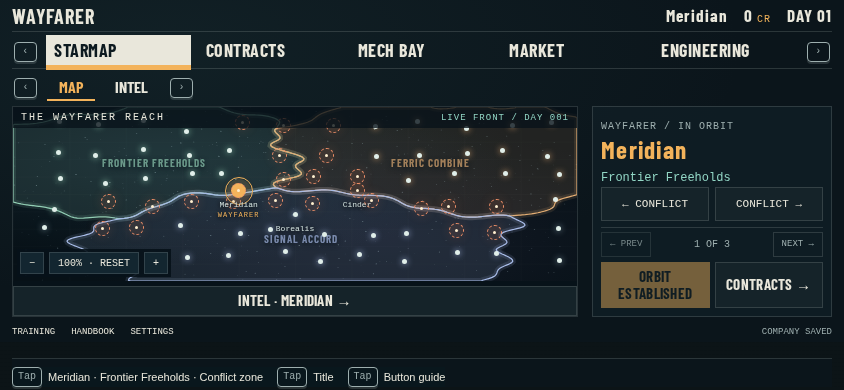
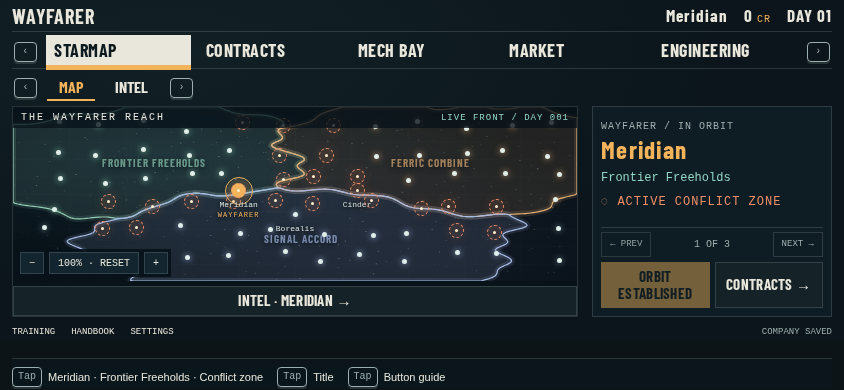
Remove conflict cycling buttons from Starmap intel

diff --git a/src/campaign-ui.ts b/src/campaign-ui.ts
@@ -1,4 +1,4 @@
-import { getSystemIntel, PLANETS } from './universe';
+import { getSystemIntel } from './universe';
 import { renderTerritoryMap } from './territory-map';
 import { selectWorkspacePane } from './workspace';
 import { html } from 'lit-html';
@@ -42,11 +42,6 @@ export const renderStarmap = function (root: HTMLElement, campaign: Campaign, de
 	const planet = getPlanet(destination);
 	const forecast = destination === campaign.planetId ? campaign : travelTo(campaign, destination);
 	const intel = getSystemIntel(forecast, destination);
-	const conflicts = PLANETS.filter(function (world) { return getSystemIntel(world.id === campaign.planetId ? campaign : travelTo(campaign, world.id), world.id).conflict; });
-	const moveConflict = function (delta: number) {
-		const index = conflicts.findIndex(function (world) { return world.id === destination; });
-		const next = conflicts[(index + delta + conflicts.length) % conflicts.length]; if (next) actions.selectPlanet(next.id);
-	};
 	const local = destination === campaign.planetId;
 	const active = campaign.active;
 	const mech = getOwnedMech(campaign);
@@ -54,9 +49,9 @@ export const renderStarmap = function (root: HTMLElement, campaign: Campaign, de
 	const panes: WorkspacePane[] = [
 		{ id: 'route', label: 'Starmap', items: [renderTerritoryMap(root, campaign, destination, actions.selectPlanet)], actions: html`<button @click=${function () { selectWorkspacePane(root, 'system'); }}>INTEL · ${planet.name.toUpperCase()} →</button>` },
 		{ id: 'system', label: 'System intel', items: [
-			html`<span class="eyebrow">${local ? 'WAYFARER / IN ORBIT' : `ARRIVAL FORECAST / DAY ${forecast.day}`}</span><h3>${planet.name}</h3><p class="system-control">${intel.owner ? getFaction(intel.owner).name : 'Unclaimed space'}</p><div class="system-nav"><button ?disabled=${Boolean(active) || !conflicts.length} @click=${function () { moveConflict(-1); }}>← CONFLICT</button><button ?disabled=${Boolean(active) || !conflicts.length} @click=${function () { moveConflict(1); }}>CONFLICT →</button></div>`,
+			html`<span class="eyebrow">${local ? 'WAYFARER / IN ORBIT' : `ARRIVAL FORECAST / DAY ${forecast.day}`}</span><h3>${planet.name}</h3><p class="system-control">${intel.owner ? getFaction(intel.owner).name : 'Unclaimed space'}</p>`,
 			html`<p class=${intel.conflict ? 'system-conflict' : 'system-quiet'}>${intel.conflict ? '◌ ACTIVE CONFLICT ZONE' : 'NO ACTIVE CONFLICT'}</p>`,
-			...textItems(intel.conflict ? intel.participants.map(function (id) { return getFaction(id).name; }).join(' / ') : 'No military contracts posted. Inspect another system or cycle to a conflict zone.'),
+			...textItems(intel.conflict ? intel.participants.map(function (id) { return getFaction(id).name; }).join(' / ') : 'No military contracts posted. Select a conflict zone on the Starmap.'),
 			...textItems(planet.description),
 			...textItems('Fronts move with calendar days. Victories strengthen the employer locally; defeat or abort strengthens the opposition.'),
 			...textItems(order ? `Frame in Engineering until day ${order.readyDay}.` : mech ? `${getFrame(mech.frameId).name} · ${Math.ceil(mech.integrity)}% integrity. Transit: one day, no fuel cost.` : 'Select a company frame before deployment.'),

diff --git a/src/territory-map.css b/src/territory-map.css
@@ -36,8 +36,6 @@
 .workspace .system-control { font: 12px var(--mono); color: var(--cyan); }
 .workspace .system-conflict { color: #ee8f68; font: 12px var(--mono); letter-spacing: 1px; }
 .workspace .system-quiet { color: var(--muted); font: 12px var(--mono); }
-.system-nav { display: flex; gap: 6px; flex-wrap: wrap; }
-.system-nav button { flex: 1; font: 11px var(--mono); padding: 10px 8px; }
 @media (max-width: 760px) {
 	#starmap[data-view='route'] .workspace-body { grid-template-columns: minmax(0, 1fr); grid-template-rows: minmax(0, 1fr); }
 	#starmap[data-view='route'] [data-pane='system'] { display: none; }
